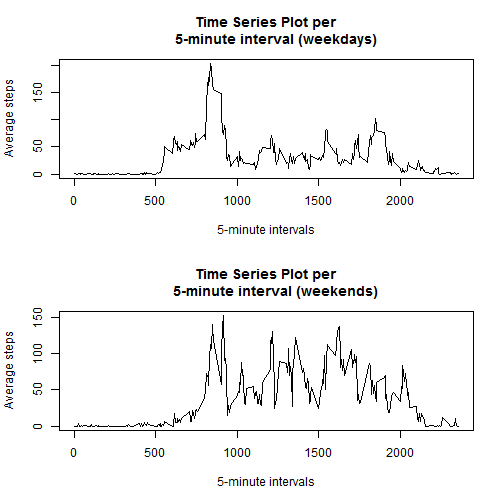
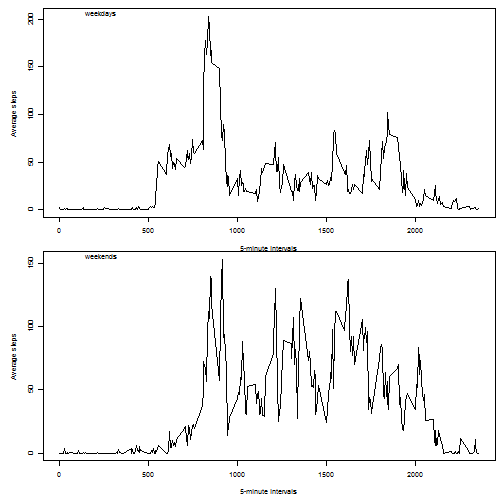
plot changed to be more panel

diff --git a/PA1_template.html b/PA1_template.html
@@ -183,15 +183,16 @@ hljs.initHighlightingOnLoad();
 
 <h2>Loading and preprocessing the data</h2>
 
-<pre><code class="r">data &lt;- read.csv(unz(&quot;activity.zip&quot;, &quot;activity.csv&quot;), colClasses = c(&quot;numeric&quot;,                                                               &quot;character&quot;, &quot;numeric&quot;))
+<pre><code class="r">data &lt;- read.csv(unz(&quot;activity.zip&quot;, &quot;activity.csv&quot;), colClasses =
+                     c(&quot;numeric&quot;, &quot;character&quot;, &quot;numeric&quot;))
 </code></pre>
 
 <p><code>dplyr</code> and <code>timeDate</code> packages are necessary.</p>
 
-<pre><code class="r">Sys.setlocale(&quot;LC_TIME&quot;,&quot;English_United States.1252&quot;)
+<pre><code class="r">Sys.setlocale(&quot;LC_ALL&quot;,&quot;English_United States.1252&quot;)
 </code></pre>
 
-<pre><code>## [1] &quot;English_United States.1252&quot;
+<pre><code>## [1] &quot;LC_COLLATE=English_United States.1252;LC_CTYPE=English_United States.1252;LC_MONETARY=English_United States.1252;LC_NUMERIC=C;LC_TIME=English_United States.1252&quot;
 </code></pre>
 
 <pre><code class="r">Sys.setenv(TZ=&#39;GMT&#39;)
@@ -201,11 +202,11 @@ library(dplyr)
 <pre><code>## 
 ## Attaching package: &#39;dplyr&#39;
 ## 
-## Следующие объекты скрыты from &#39;package:stats&#39;:
+## The following objects are masked from &#39;package:stats&#39;:
 ## 
 ##     filter, lag
 ## 
-## Следующие объекты скрыты from &#39;package:base&#39;:
+## The following objects are masked from &#39;package:base&#39;:
 ## 
 ##     intersect, setdiff, setequal, union
 </code></pre>
@@ -370,14 +371,17 @@ new.data.weekends &lt;- new.data %.%
 
 <pre><code class="r"># Ploting
 par(mfrow = c(2,1))
-plot(new.data.weekdays$interval, new.data.weekdays$mean, type = &quot;l&quot;, main = &quot;Time Series Plot per
-     5-minute interval (weekdays)&quot;, xlab = &quot;5-minute intervals&quot;, ylab = &quot;Average steps&quot;)
+par(cex = 0.6)
+par(mar = c(4,4,0,0), oma = c(1,1,1,1))
 
-plot(new.data.weekends$interval, new.data.weekends$mean, type = &quot;l&quot;, main = &quot;Time Series Plot per
-     5-minute interval (weekends)&quot;, xlab = &quot;5-minute intervals&quot;, ylab = &quot;Average steps&quot;)
+plot(new.data.weekdays$interval, new.data.weekdays$mean, type = &quot;l&quot;, xlab = &quot;5-minute intervals&quot;, ylab = &quot;Average steps&quot;)
+mtext(&quot;weekdays&quot;, side = 3, line = -1, adj = 0.1, cex = 0.6)
+
+plot(new.data.weekends$interval, new.data.weekends$mean, type = &quot;l&quot;, xlab = &quot;5-minute intervals&quot;, ylab = &quot;Average steps&quot;)
+mtext(&quot;weekends&quot;, side = 3, line = -1, adj = 0.1, cex = 0.6)
 </code></pre>
 
[2 lines of base64/hex data omitted]
 
 </body>
 
